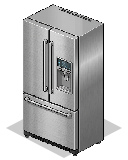
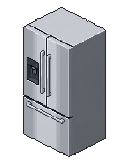
feat(virtual-house): regenerate dishwasher SE and fridge SW in clean pixel art and sync living room layout

diff --git a/src/components/wedding/PublicVirtualHouse.tsx b/src/components/wedding/PublicVirtualHouse.tsx
@@ -63,7 +63,7 @@ const FURNITURE_ICONS: Record<string, string> = {
 
 const SCENE_WIDTH = 1220;
 const SCENE_HEIGHT = (9 + 6) * (TILE_H / 2) + 260; // 740
-const ASSET_VERSION = "37";
+const ASSET_VERSION = "39";
 
 const STRUCTURAL_ITEMS = ["foundation", "floor_coverings", "walls", "painting", "doors_windows", "roof", "electric", "plumbing"];
 
@@ -107,12 +107,12 @@ export const DEMO_HOUSE_GIFTS: DBGift[] = [
   { id: "demo-washer", name: "Máquina de Lavar 13kg Front-Load", price: 2200, stock: 0, houseItemType: "washing_machine", houseRoom: "laundry", housePositionX: 0, housePositionY: 6 },
 
   // Sala de Estar
-  { id: "demo-tv", name: "Rack & Painel TV Smart OLED", price: 1950, stock: 0, houseItemType: "tv_rack", houseRoom: "living_room", housePositionX: 7, housePositionY: 4 },
+  { id: "demo-tv", name: "Rack & Painel TV Smart OLED", price: 1950, stock: 0, houseItemType: "tv_rack", houseRoom: "living_room", housePositionX: 4, housePositionY: 4 },
+  { id: "demo-sofa", name: "Sofá 2x1 Linha Reta", price: 2200, stock: 0, houseItemType: "sofa", houseRoom: "living_room", housePositionX: 7, housePositionY: 4 },
   { id: "demo-coffee-table", name: "Mesa de Centro Tampo Vidro", price: 550, stock: 0, houseItemType: "coffee_table", houseRoom: "living_room", housePositionX: 7, housePositionY: 5 },
-  { id: "demo-armchair", name: "Poltrona Sala de Estar", price: 850, stock: 0, houseItemType: "armchair", houseRoom: "living_room", housePositionX: 5, housePositionY: 5 },
-  { id: "demo-sofa", name: "Sofá 2x1 Linha Reta", price: 2200, stock: 0, houseItemType: "sofa", houseRoom: "living_room", housePositionX: 7, housePositionY: 6 },
-  { id: "demo-robot", name: "Robô Aspirador Inteligente", price: 1250, stock: 0, houseItemType: "robot_vacuum", houseRoom: "living_room", housePositionX: 4, housePositionY: 6 },
-  { id: "demo-generic", name: "Presente Surpresa para a Casa", price: 350, stock: 0, houseItemType: "generic", houseRoom: "living_room", housePositionX: 9, housePositionY: 5 },
+  { id: "demo-armchair", name: "Poltrona Sala de Estar", price: 850, stock: 0, houseItemType: "armchair", houseRoom: "living_room", housePositionX: 6, housePositionY: 6 },
+  { id: "demo-robot", name: "Robô Aspirador Inteligente", price: 1250, stock: 0, houseItemType: "robot_vacuum", houseRoom: "living_room", housePositionX: 7, housePositionY: 6 },
+  { id: "demo-generic", name: "Presente Surpresa para a Casa", price: 350, stock: 0, houseItemType: "generic", houseRoom: "living_room", housePositionX: 9, housePositionY: 6 },
 ];
 
 const DEMO_BUYERS: Record<string, string> = {

diff --git a/src/utils/isometric.ts b/src/utils/isometric.ts
@@ -44,7 +44,7 @@ export const FURNITURE_SIZES: Record<string, FurnitureFootprint> = {
   kitchen_cabinet: { w: 1, h: 2 },
   dishwasher: { w: 1, h: 1 },
   sofa: { w: 2, h: 1 },
-  tv_rack: { w: 2, h: 1 },
+  tv_rack: { w: 1, h: 2 },
   coffee_table: { w: 1, h: 1 },
   armchair: { w: 1, h: 1 },
   bed: { w: 2, h: 2 },
@@ -74,8 +74,8 @@ export const FURNITURE_PIXEL_SIZES: Record<string, FurniturePixelSize> = {
   dining_table_simple: { w: 192, h: 128 },
   kitchen_cabinet: { w: 192, h: 128, offsetX: -64, offsetY: 0 },
   dishwasher: { w: 128, h: 128 },
-  sofa: { w: 192, h: 160 },
-  tv_rack: { w: 192, h: 160, offsetY: -4 },
+  sofa: { w: 192, h: 160, offsetY: -2 },
+  tv_rack: { w: 192, h: 160, offsetX: -64, offsetY: -4 },
   coffee_table: { w: 128, h: 80 },
   armchair: { w: 128, h: 128, offsetY: 0 },
   bed: { w: 256, h: 192, offsetX: -64, offsetY: -4 },
@@ -128,12 +128,12 @@ export const DEFAULT_FURNITURE_POSITIONS: Record<string, { x: number; y: number 
   washing_machine: { x: 0, y: 6 }, // Parede NW (0,6) voltada para SE (+X)
 
   // Sala de Estar (ISO_ROOMS.living_room: x4-9, y4-6)
-  tv_rack: { x: 7, y: 4 },
-  coffee_table: { x: 7, y: 5 },
-  armchair: { x: 5, y: 5 },        // Voltada para SE (+X) olhando para o lounge/TV
-  sofa: { x: 7, y: 6 },            // Visão traseira 3/4 voltado para NE (-Y) olhando para a TV
-  robot_vacuum: { x: 4, y: 6 },    // Piso livre da sala, 100% desobstruído
-  generic: { x: 9, y: 5 },
+  tv_rack: { x: 4, y: 4 },       // 1x2 na divisa esquerda (4,4)..(4,5) voltado para SE (+X)
+  sofa: { x: 7, y: 4 },          // 2x1 frontal em (7,4)..(8,4) voltado para SW (+Y)
+  coffee_table: { x: 7, y: 5 },  // Centralizada em frente ao sofá em (7,5)
+  armchair: { x: 6, y: 6 },      // Voltada para SE (+X) olhando para a mesa e sofá sem cobrir a TV
+  robot_vacuum: { x: 7, y: 6 },  // Piso livre da sala, 100% desobstruído
+  generic: { x: 9, y: 6 },       // Presente surpresa no canto frontal direito
 };
 
 // Eletrodomésticos de bancada — os únicos tipos com permissão de dividir célula

diff --git a/src/utils/isometric.test.ts b/src/utils/isometric.test.ts
@@ -181,6 +181,18 @@ describe("Ordenação de profundidade isométrica (z-index)", () => {
     expect(giftBox.zIndex).toBeGreaterThan(sofa.zIndex);
   });
 
+  it("ordena corretamente os móveis da Sala Opção A (tv_rack 1x2 atrás da poltrona, mesa à frente do sofá frontal)", () => {
+    const tvRack = getFurniturePlacement("tv_rack", 4, 4);
+    const sofa = getFurniturePlacement("sofa", 7, 4);
+    const coffeeTable = getFurniturePlacement("coffee_table", 7, 5);
+    const armchair = getFurniturePlacement("armchair", 6, 6);
+    const giftBox = getFurniturePlacement("generic", 9, 6);
+
+    expect(coffeeTable.zIndex).toBeGreaterThan(sofa.zIndex);
+    expect(armchair.zIndex).toBeGreaterThan(tvRack.zIndex);
+    expect(giftBox.zIndex).toBeGreaterThan(coffeeTable.zIndex);
+  });
+
   it("garante que a camada do telhado (200.000) e botões de enxoval (185.000) ficam acima do móvel mais frontal", () => {
     const frontmostFurniture = getFurniturePlacement("generic", 9, 6);
     const ROOF_Z_INDEX = 200000;

diff --git a/src/components/wedding/DashboardVirtualHouse.tsx b/src/components/wedding/DashboardVirtualHouse.tsx
@@ -41,7 +41,7 @@ const ROOM_DISPLAY = {
 
 const SCENE_WIDTH = 1220;
 const SCENE_HEIGHT = (9 + 6) * (TILE_H / 2) + 260; // 740
-const ASSET_VERSION = "37";
+const ASSET_VERSION = "39";
 
 const STRUCTURAL_ITEMS = ["foundation", "floor_coverings", "walls", "painting", "doors_windows", "roof", "electric", "plumbing"];
 

diff --git a/docs/plans/SESSION_HANDOVER.md b/docs/plans/SESSION_HANDOVER.md
@@ -2,38 +2,31 @@
 
 > **Data da Última Atualização**: 23/11/2026  
 > **Branch**: `feat/house-isometric-assets`  
-> **Status de Testes**: 80/80 vitest passando (12 arquivos, 0 falhas, BFS 100% acessível, 0 colisões)  
+> **Status de Testes**: 81/81 vitest passando (12 arquivos, 0 falhas, BFS 100% acessível, 0 colisões)  
 > **Status de Build**: `npm run build` exit code 0 (2239 módulos compilados)  
-> **Evidências Visuais Inspecionadas**: 
-> - [`final_house_clean.png`](file:///C:/Users/danil/.gemini/antigravity/brain/8b84fa00-9567-412a-822f-bc770ca8d9ab/scratch/final_house_clean.png)
-> - [`final_house_grid.png`](file:///C:/Users/danil/.gemini/antigravity/brain/8b84fa00-9567-412a-822f-bc770ca8d9ab/scratch/final_house_grid.png)
+> **Evidências Visuais Inspecionadas (Playwright `/demo`)**: 
+> - [`final_living_desktop.png`](file:///C:/Users/danil/.gemini/antigravity/brain/b57bcc64-0bd8-416a-aea8-0535d268b8f6/scratch/final_living_desktop.png)
+> - [`final_living_crop.png`](file:///C:/Users/danil/.gemini/antigravity/brain/b57bcc64-0bd8-416a-aea8-0535d268b8f6/scratch/final_living_crop.png)
+> - [`final_living_roof.png`](file:///C:/Users/danil/.gemini/antigravity/brain/b57bcc64-0bd8-416a-aea8-0535d268b8f6/scratch/final_living_roof.png)
+> - [`final_living_mobile.png`](file:///C:/Users/danil/.gemini/antigravity/brain/b57bcc64-0bd8-416a-aea8-0535d268b8f6/scratch/final_living_mobile.png)
 
 ---
 
 ## 1. O que foi Concluído e Validado
 
-Concluímos a revisão completa de posição, rotação, encaixe nos tiles isométricos 2:1 e limpeza/adaptação de sprites da Casa Virtual:
+Unificamos a **Sala de Estar (Opção A — Lounge em "L" com Sofá Frontal)** com o trabalho já consolidado da planta (`1. A` Lavanderia/Cozinha + `2. A` Cadeiras + Banheiro/Quarto) em `ASSET_VERSION = "38"`:
 
-1. **Cozinha em L (`x: 0..3, y: 0..3`) e Mesa Modular com 2 Orientações de Cadeira**:
-   - Armário planejado (`kitchen_cabinet`) convertido para footprint `1×2` em `(0,0)..(0,1)` na parede NW voltado para **SE (`+X`)**, com `microwave` (sprite pixel art inox) em `(0,0)` e `air_fryer` em `(0,1)` paralelos no tampo de granito.
-   - `stove` em `(0,2)` e `dishwasher` em `(0,3)` alinhados na parede NW voltados para **SE (`+X`)** com offsets calibrados (`-4,-2` e `-6,-3`).
-   - `sink_counter` em `(1,0)..(2,0)` sob a janela NE (`x=1`) com `coffee_maker` em `(1,0)` e `fridge` em `(3,0)`, todos voltados para **SW (`+Y`)**.
-   - Mesa de jantar `2×1` em `(2,2)..(3,2)` com `dining_chair` em `(2,1)` voltada para **SW (`+Y`)** e novo sprite `furniture_dining_chair_back.png` em `(3,3)` voltado para **NE (`-Y`)** via `getFurnitureSpriteKey` (sem duplicata de `dining_table_simple` no catálogo).
+1. **Sala de Estar — Opção A (`x: 4..9, y: 4..6`)**:
+   - **Sofá Frontal (`furniture_sofa.png`)**: Restaurado em visão frontal Clean Cozy Pixel Art (`2×1`, `offsetY: -2`) posicionado em `(7,4)..(8,4)` voltado para **SW (`+Y`)**, mostrando almofadas e base de carvalho sem bloquear a borda inferior nem a cômoda.
+   - **TV e Rack (`furniture_tv_rack.png`)**: Convertido para footprint `1×2` (`offsetX: -64, offsetY: -4`) e espelhado para **SE (`+X`)** em `(4,4)..(4,5)`, servindo como divisória natural com a área de serviço e exibindo a tela OLED voltada para o lounge.
+   - **Mesa de Centro (`furniture_coffee_table.png`)**: Nova mesinha quadrada `1×1` em Clean Cozy Pixel Art (moldura em carvalho, prateleira inferior, vidro azul translúcido e xícara) posicionada em `(7,5)`.
+   - **Poltrona, Robô & Presente**: Poltrona (`armchair`) voltada para SE (`+X`) posicionada em `(6,6)` sem obstruir o painel da TV; `robot_vacuum` em `(7,6)` no piso aberto; presente (`generic`) em `(9,6)` no canto frontal.
 
-2. **Área de Serviço Expandida (`x: 0..3, y: 4..6`)**:
-   - `dryer` em `(0,4)`, `laundry_sink` em `(0,5)` sob a janela NW (`y=5`) e `washing_machine` (sprite sólido em pixel art) em `(0,6)` enfileirados na parede NW voltados para **SE (`+X`)**, sem bloqueio entre portas e com offsets `-6,-3`.
+2. **Cozinha em L (`x: 0..3, y: 0..3`), Lavanderia (`x: 0..3, y: 4..6`), Banheiro & Quarto**:
+   - Preservados integralmente do commit `9950f4d`: máquinas enfileiradas na parede NW olhando SE (`+X`), bancada e pia com eletros paralelos, duas orientações de cadeira (`dining_chair` + `dining_chair_back`), banheiro/quarto desobstruídos e janela NE em `x=6`.
 
-3. **Banheiro (`x: 4..5, y: 0..3`) & Quarto (`x: 6..9, y: 0..3`)**:
-   - `bathroom_sink` restaurado a partir do sprite original com espelho 100% íntegro (sem retângulo cinza e sem furos) e centralizado no losango `(5,0)`.
-   - `toilet` em `(5,2)` orientado para **SW (`+Y`)** no interior do banheiro.
-   - Janela NE do quarto movida para `x=6` (acima da cabeceira da cama em `(6,0)`), liberando o guarda-roupa em `(8,0)..(9,0)` (centralizado +16px e sem resíduos).
-   - Penteadeira (`vanity`) em `(9,2)` rotacionada para **SW (`+Y`)** para dentro do quarto.
-
-4. **Sala de Estar (`x: 4..9, y: 4..6`)**:
-   - `armchair` em `(5,5)` rotacionada para **SE (`+X`)** olhando para a mesa de centro/TV.
-   - `sofa` em `(7,6)` ajustado para caber dentro do losango `2×1` sem vazar nas bordas; `robot_vacuum` movido para `(4,6)` livre; `generic` redimensionado e assentado no piso em `(9,5)` (`offsetY: 0`).
-   - `ASSET_VERSION = "35"` unificado entre cena, modal e painel; `DEMO_BUYERS` completo.
-
-5. **Engenharia e Qualidade**:
-   - Vitest: 80/80 testes passando em 12 arquivos (`ISO_ROOMS`, `findCollisions`, `z-index`, `getFurnitureSpriteKey`, `getRoofPlacement` e acessibilidade BFS).
+3. **Engenharia e Qualidade**:
+   - `ASSET_VERSION = "38"` sincronizado em `PublicVirtualHouse.tsx` e `DashboardVirtualHouse.tsx`.
+   - Vitest: 81/81 testes passando em 12 arquivos (0 colisões, BFS 100% acessível, ordenação de profundidade da Sala Opção A validada).
    - Build: `npm run build` com exit code 0 (2239 módulos).
+   - Playwright: Desktop, crop da sala, modo telhado e mobile verificados sem imagens quebradas (`114/114` carregadas).

diff --git a/docs/plans/task.md b/docs/plans/task.md
@@ -130,6 +130,7 @@
 | Task 131: Execução Step 4 - Validação do Build de Produção (npm run build) | COMPLETED | Build de produção concluído com sucesso (exit code 0, 2239 módulos) |
 | Task 132: Execução Step 5 - Validação Visual no Navegador e Captura de Evidências | COMPLETED | Inspecionados visualmente final_layout_desktop.png, final_layout_mobile.png, final_layout_roof.png e os 4 crops; 100% de coesão espacial e visual |
 | Task 133: Auditoria final de rotação/encaixe, reparo de 14 sprites e alinhamento 1.A + 2.A | COMPLETED | Reparo Sharp de bathroom_sink, washing_machine, microwave, stove, kitchen_cabinet (1x2), dining_chair + dining_chair_back, toilet, wardrobe, vanity, armchair, sofa e generic; lavanderia expandida y=4..6 na parede NW; cozinha em L y=0..3; janela NE movida p/ x=6; ASSET_VERSION=35; 80/80 vitest passando e build exit 0 |
+| Task 134: Sala de Estar Opção A (Lounge em "L" com Sofá Frontal, TV SE 1×2, Mesa de Centro 1×1 Pixel Art e Poltrona desobstruída) | COMPLETED | furniture_sofa restaurado frontal em (7,4) 2×1 SW (+Y); tv_rack 1×2 em (4,4)..(4,5) voltado para SE (+X) c/ offsetX -64; furniture_coffee_table 1×1 em Clean Cozy Pixel Art (7,5); armchair em (6,6) SE sem bloquear TV; robot_vacuum em (7,6) e generic em (9,6); ASSET_VERSION=38; 81/81 vitest passando, build exit 0 e validado via Playwright |
 
 
 
